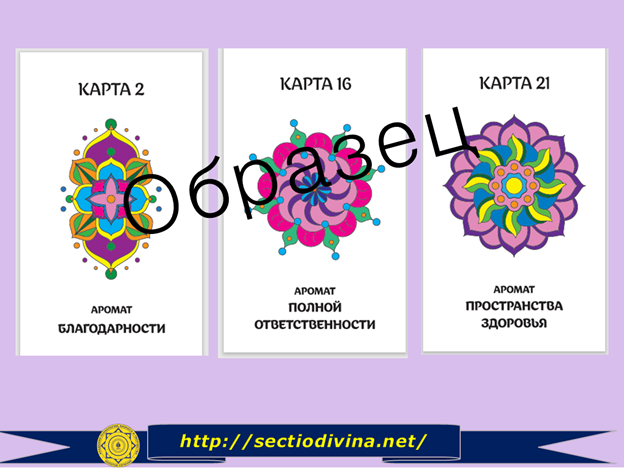
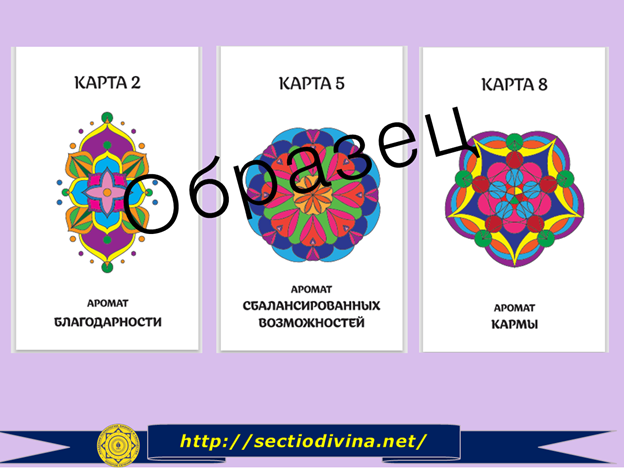
обновил карты

diff --git a/index.html b/index.html
@@ -55,23 +55,15 @@
           <h1 class="main-text1">Карта № 1</h1>
           <h2 class="main-text2">Аромат благодарности.</h2>
           <p class="cart1">
-            По карте «Аромат благодарности» качество здоровья зависит от умения принимать действительность такой, какая она есть. А также от проявления искренней благодарности за все, что дает вам жизнь. 
-Рекомендации по карте в области здоровья: 
-- Примите себя, своё тело и текущее состояние здоровья без осуждения и критики. 
-Помните, что каждый день — это возможность стать лучше.
- - Практикуйте ежедневную благодарность за простые вещи.
-Найдите хотя бы 3–5 моментов в день, за которые вы можете быть благодарны.
-- Проговаривайте благодарности вслух.
-Говорите добрые слова, признавайте свои достижения и достижения других людей.
-- Учитесь видеть красоту в обыденности. Избавляйтесь от негативных мыслей и установок.
-Помните, что неблагодарность может негативно влиять на организм, способствуя накоплению токсинов. Заменяйте негативные мысли на позитивные.
-- Помните, что благодарность — это путь к гармонии тела и души.
-Позитивный настрой и умение ценить простые радости жизни напрямую влияют на физическое самочувствие и общее качество жизни.
-
+            По карте «Аромат благодарности» уровень финансового благополучия зависит от проявления должной благодарности за все, что вы имеете на данный момент.
+Возможен рост благосостояния. 
+Рекомендации по карте в области финансов: 
+- Учиться быть благодарным: практикуйте благодарность какие бы негативные обстоятельства вас не окружали. Превратите благодарность в привычку. Помните, что путь к изобилию лежит через благодарность;
+- Заниматься благотворительностью;
+- Верить в чудеса.
             <div class="number-cart">
               Пишите номер карты нам в ответном письме и получите доступ к медитации на платформе геткурс.
             </div> 
-         
             Получить практическую рекомендацию.
             <span class="information_card"
               >Нажмите на цифру, чтобы получить рекомендацию</span
@@ -81,12 +73,14 @@
   
         <div class="info infos1" id="info2">
           <h4 class="main-text3">Карта № 2</h4>
-          <h5 class="main-text4">Аромат полной ответственности.</h5>
+          <h5 class="main-text4">Аромат сбалансированных возможностей</h5>
           <p class="cart2">
-            По карте «Аромат полной ответственности» ваш текущий статус - Хорошее здоровье.
-Рекомендации по карте в области здоровья: 
--Учитесь ответственно относиться к своему здоровью. Не перекладывайте ответственность за самочувствие на других людей или обстоятельства. Ваше здоровье — это результат ваших ежедневных решений и действий. Вы способны на многое!
-- Работайте над выполнением того, что вы задумали. Пообещали себе вести здоровый образ жизни – сделайте это! Каждое выполненное обещание — это шаг к укреплению силы воли и личной ответственности.
+            По карте «Аромат сбалансированных возможностей», уровень финансового благосостояния зависит от вашей удовлетворённости той деятельностью, которой вы занимаетесь.
+Рекомендации по карте в области финансов: 
+- Осознать, что хороший доход можно получить, если ваша работа приносит удовлетворение.  
+- Искать пути зарабатывать, занимаясь любимым делом.
+- Стремиться заниматься в жизни тем, что приносит вам радость и, что не мало важно, не мешает окружающим, а, напротив, вдохновляет их. Это, конечно, прежде всего, касается вашей работы, так как она занимает значительную часть жизни, и ее выбор может оказать существенное влияние на ваше общее самочувствие. Важно понять, что перед вами стоит вопрос не только о материальном благополучии, но и о вашем эмоциональном состоянии и уровне счастья.
+
             <div class="number-cart">
               Пишите номер карты нам в ответном письме и получите доступ к медитации на платформе геткурс.
             </div> 
@@ -101,13 +95,15 @@
             Карта № 3 
           </h6>
           <h7 class="main-text6">
-            Аромат пространства здоровья.
+            Аромат кармы.
           </h7>
           <p class="cart3">
-            По карте «Аромат пространства здоровья» уровень самочувствия зависит от степени внушаемости человека. Если вы подвержены отрицательному влиянию, то это обязательно скажется на вашем здоровье. 
-Человек может запрограммировать и сам себя. Хорошо, если вы внушаете себе что-то позитивное – я талантлив, я здоров, я благополучен. Но очень часто, в силу каких-то установок, мы склонны видеть как раз негативную сторону себя – я невезучий, я не могу выздороветь, у меня плохая память и т.д.
-Рекомендации по карте в области здоровья: 
-- Анализируйте свое отношение к внушению. И, если уж подвергаться внушению, то только положительному. Составьте для себя ряд аффирмаций, где вы провозглашаете себя здоровым, энергичным, бодрым и внушайте себе это хоть каждый день. 
+            По карте «Аромат кармы», на этой неделе вас может ожидать неожиданная прибыль, лотерейный выигрыш, внеплановая премия. 
+Рекомендации по карте в области финансов: 
+- Принимать свое материальное положение. 
+- Отдавать «десятину» на благотворительность.
+- Развивать в себе умение анализировать причинно-следственные связи.
+- Строить финансовые отношения по законам справедливости, чтобы не причинять вреда другим людям и окружающему миру.
             <div class="number-cart">
               Пишите номер карты нам в ответном письме и получите доступ к медитации на платформе геткурс.
             </div> 
